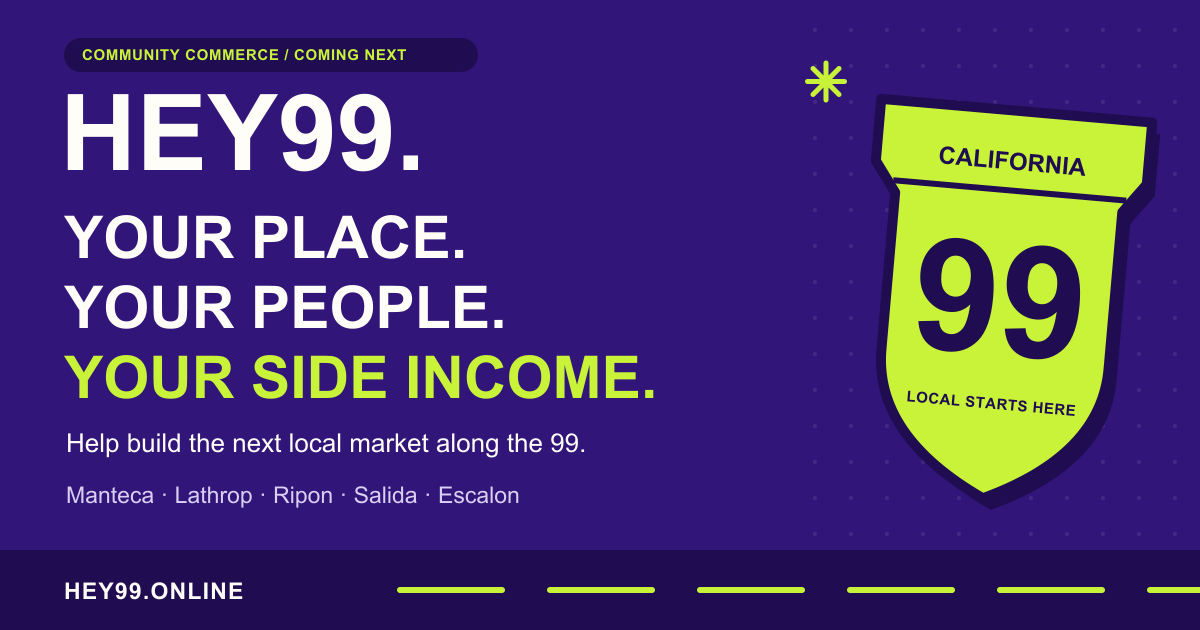
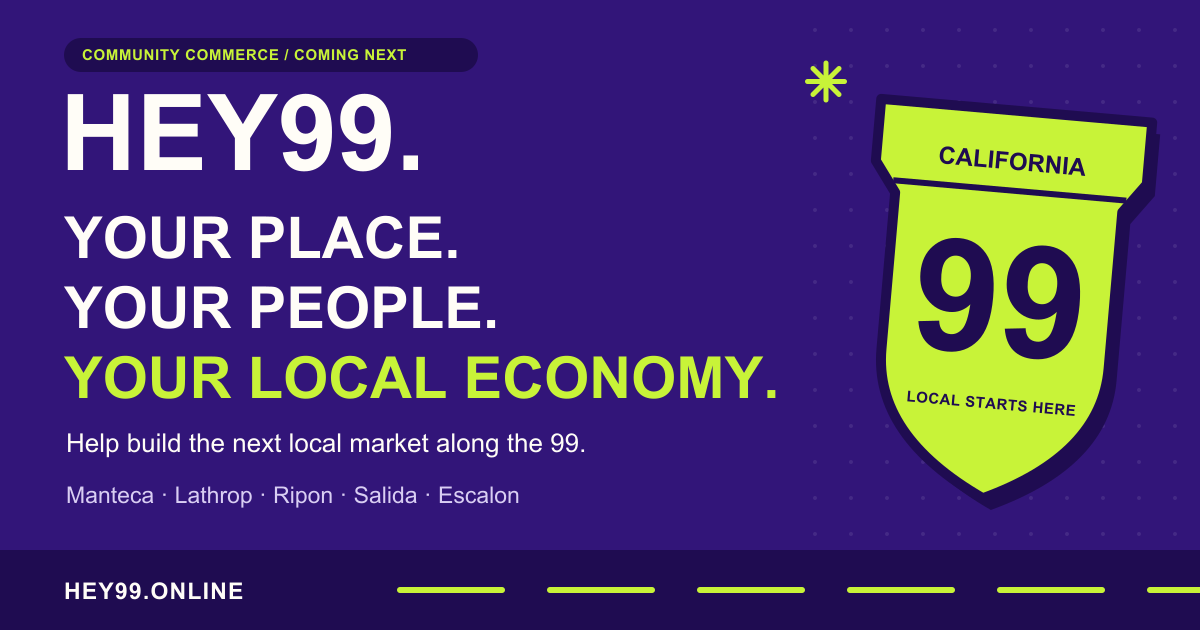
Lead Hey99 with local community and welcome merchants

Changed region(s): [[0.0617, 0.4524, 0.6475, 0.6333], [0.0617, 0.3317, 0.4008, 0.4222]]

diff --git a/index.html b/index.html
@@ -3,8 +3,8 @@
   <head>
     <meta charset="utf-8" />
     <meta name="viewport" content="width=device-width, initial-scale=1" />
-    <title>Hey99 — Build what’s next along the 99</title>
-    <meta name="description" content="Want a side income? Help build Hey99—the next community-powered market for Manteca, Lathrop, Ripon, Salida and Escalon." />
+    <title>Hey99 — Your place. Your people. Your local economy.</title>
+    <meta name="description" content="Help build a local economy along California’s Highway 99. Grow your business, connect your neighbors, and earn from the value you contribute." />
     <meta name="theme-color" content="#321579" />
     <link rel="icon" href="./assets/favicon.svg?v=2" type="image/svg+xml" />
     <link rel="icon" href="./assets/favicon-32.png?v=2" type="image/png" sizes="32x32" />
@@ -14,18 +14,18 @@
     <meta property="og:type" content="website" />
     <meta property="og:site_name" content="Hey99" />
     <meta property="og:url" content="https://hey99.online/" />
-    <meta property="og:title" content="Hey99 — Build a side income close to home" />
-    <meta property="og:description" content="Want a side income? Help build Hey99—the next community-powered market for Manteca, Lathrop, Ripon, Salida and Escalon." />
-    <meta property="og:image" content="https://hey99.online/assets/og-card-v2.png" />
+    <meta property="og:title" content="Hey99 — Your place. Your people. Your local economy." />
+    <meta property="og:description" content="Help build a local economy along California’s Highway 99. Grow your business, connect your neighbors, and earn from the value you contribute." />
+    <meta property="og:image" content="https://hey99.online/assets/og-card-v3.png" />
     <meta property="og:image:type" content="image/png" />
     <meta property="og:image:width" content="1200" />
     <meta property="og:image:height" content="630" />
-    <meta property="og:image:alt" content="Hey99: Your place. Your people. Your side income. A lime California Highway 99 shield on purple." />
+    <meta property="og:image:alt" content="Hey99: Your place. Your people. Your local economy. A lime California Highway 99 shield on purple." />
     <meta name="twitter:card" content="summary_large_image" />
-    <meta name="twitter:title" content="Hey99 — Build a side income close to home" />
-    <meta name="twitter:description" content="Want a side income? Help build Hey99—the next community-powered market for Manteca, Lathrop, Ripon, Salida and Escalon." />
-    <meta name="twitter:image" content="https://hey99.online/assets/og-card-v2.png" />
-    <meta name="twitter:image:alt" content="Hey99: Your place. Your people. Your side income. A lime California Highway 99 shield on purple." />
+    <meta name="twitter:title" content="Hey99 — Your place. Your people. Your local economy." />
+    <meta name="twitter:description" content="Help build a local economy along California’s Highway 99. Grow your business, connect your neighbors, and earn from the value you contribute." />
+    <meta name="twitter:image" content="https://hey99.online/assets/og-card-v3.png" />
+    <meta name="twitter:image:alt" content="Hey99: Your place. Your people. Your local economy. A lime California Highway 99 shield on purple." />
     <link rel="preconnect" href="https://fonts.googleapis.com" />
     <link rel="preconnect" href="https://fonts.gstatic.com" crossorigin />
     <link href="https://fonts.googleapis.com/css2?family=DM+Sans:wght@400;500;600;700;800&family=Lilita+One&display=swap" rel="stylesheet" />
@@ -59,13 +59,13 @@
         <div class="wrap hero-grid">
           <div class="hero-copy">
             <span class="eyebrow">#hey99 · Highway 99, California</span>
-            <h1 id="hero-title">Your next income stream has a <span>hometown.</span></h1>
-            <p class="hero-lede">A new local marketplace is coming to Manteca, Lathrop, Ripon, Salida and Escalon. If you know the people, places and businesses along the 99, there’s a part for you in building it.</p>
+            <h1 id="hero-title">Your place.<br />Your people.<br /><span>Your local economy.</span></h1>
+            <p class="hero-lede">Join the people building a stronger local economy in Manteca, Lathrop, Ripon, Salida and Escalon. Bring your business, your creativity or your local connections to a marketplace made by its community.</p>
             <div class="hero-actions">
               <a class="button" href="./join/">Help launch Hey99 <span aria-hidden="true">↗</span></a>
-              <a class="text-link" href="https://community.markets/economics/">See how earnings work <span aria-hidden="true">↗</span></a>
+              <a class="text-link" href="./market/">Explore the local market <span aria-hidden="true">↗</span></a>
             </div>
-            <p class="hero-status"><span aria-hidden="true">●</span> For anyone who wants to build a side income locally</p>
+            <p class="hero-status"><span aria-hidden="true">●</span> Local businesses. Local people. Building together.</p>
           </div>
           <div class="hero-art" aria-hidden="true">
             <div class="orbit orbit-one"></div><div class="orbit orbit-two"></div>
@@ -84,9 +84,11 @@
       <section class="section intro" id="opportunity">
         <div class="wrap two-column">
           <div><span class="eyebrow dark">A market made by its people</span><h2>Know this place?<br /><span>That matters.</span></h2></div>
-          <div class="intro-copy"><p class="large">The best local recommendations already happen every day: a friend names a repair shop, a creator shows a favorite spot, a neighbor connects a business to its next customer.</p><p>Hey99 gives those contributions a shared marketplace. Early participants can bring in sellers, invite other cosellers, make useful content and share offers. When eligible commerce starts, the people who help a sale happen can earn from it.</p><p><a class="inline-link" href="https://community.markets/economics/">Read the shared earnings model <span aria-hidden="true">↗</span></a></p></div>
+          <div class="intro-copy"><p class="large">The best local recommendations already happen every day: a friend names a repair shop, a creator shows a favorite spot, a neighbor connects a business to its next customer.</p><p>Hey99 brings businesses and neighbors together around useful local offers, honest stories and trusted recommendations. Merchants can reach nearby customers and build local relationships. Community participants can help businesses grow—and build a side income from the value they contribute when eligible commerce begins.</p><p><a class="inline-link" href="https://community.markets/economics/">Read the shared earnings model <span aria-hidden="true">↗</span></a></p></div>
         </div>
       </section>
+
+      <section class="section participation" aria-labelledby="participation-title"><div class="wrap"><div class="section-heading"><span class="eyebrow dark">Be part of what comes next</span><h2 id="participation-title">A place for your business.<br />A part for you.</h2><p>Local commerce grows when businesses and the people around them build together.</p></div><div class="participation-grid"><article class="participation-card"><span class="eyebrow dark">For merchants, makers &amp; service providers</span><h3>Bring your business</h3><p>Help shape the first local offers. Reach nearby customers through trusted stories and recommendations, and build lasting relationships with your community.</p><a class="button" href="./join/">Bring your business <span aria-hidden="true">↗</span></a></article><article class="participation-card"><span class="eyebrow dark">For neighbors, creators &amp; connectors</span><h3>Help your community grow</h3><p>Bring the connections, content and recommendations that help local businesses thrive. When eligible commerce begins, your contribution can also become a side income.</p><a class="button" href="./join/">Help your community grow <span aria-hidden="true">↗</span></a></article></div></div></section>
 
       <section class="section ways" aria-labelledby="ways-title">
         <div class="wrap"><div class="section-heading"><span class="eyebrow dark">Your way in</span><h2 id="ways-title">Four ways to move<br />the market.</h2><p>Start with the contribution you already know how to make.</p></div>
@@ -104,9 +106,9 @@
         <div class="wrap place-grid"><div class="place-art" aria-hidden="true"><div class="place-road"><span>99</span></div><span class="place-label p1">MANTECA</span><span class="place-label p2">LATHROP</span><span class="place-label p3">RIPON</span><span class="place-label p4">SALIDA</span><span class="place-label p5">ESCALON</span></div><div class="place-copy"><span class="eyebrow">Five communities, one first chapter</span><h2>Built along the 99.<br />Built by you.</h2><p>Hey99 begins with Manteca, Lathrop, Ripon, Salida and Escalon. Each place has its own businesses, everyday needs and people who know what deserves attention.</p><p>We’re looking for local people who can spot a great first offer, bring a seller into the fold or tell a story their neighbors will actually use.</p><a class="button button-light" href="./join/">I know this place <span aria-hidden="true">↗</span></a></div></div>
       </section>
 
-      <section class="section process" id="how"><div class="wrap"><div class="section-heading"><span class="eyebrow dark">How it works</span><h2>From local knowledge<br />to local income.</h2></div><div class="process-grid"><div><span>01</span><h3>Start with a real need</h3><p>A seller approves an offer and its reward terms. The offer says what counts as an eligible sale.</p></div><div><span>02</span><h3>People make it useful</h3><p>Connect the seller, create content, invite cosellers or share a relevant recommendation.</p></div><div><span>03</span><h3>Eligible sales reward the chain</h3><p>When commerce is live and a qualifying sale settles, its published terms determine who earns.</p></div></div><div class="process-note"><strong>Preview status</strong><p>Hey99 is recruiting now. Offers, checkout and payouts are not live, and preview activity creates no earnings. We’ll publish each offer’s terms before sharing begins.</p></div></div></section>
+      <section class="section process" id="how"><div class="wrap"><div class="section-heading"><span class="eyebrow dark">How it works</span><h2>Local connections.<br />Local commerce.</h2></div><div class="process-grid"><div><span>01</span><h3>Start with a real need</h3><p>A seller approves an offer and its reward terms. The offer says what counts as an eligible sale.</p></div><div><span>02</span><h3>People make it useful</h3><p>Connect the seller, create content, invite cosellers or share a relevant recommendation.</p></div><div><span>03</span><h3>A stronger local network</h3><p>When commerce is live and a qualifying sale settles, its published terms determine who earns.</p></div></div><div class="process-note"><strong>Preview status</strong><p>Hey99 is recruiting now. Offers, checkout and payouts are not live, and preview activity creates no earnings. We’ll publish each offer’s terms before sharing begins.</p></div></div></section>
 
-      <section class="section join" id="join"><div class="wrap join-grid"><div><span class="eyebrow">The founding invitation</span><h2>Bring your idea.<br /><span>Bring your people.</span></h2><p>Tell us where you’re rooted, the businesses or creators you know, and the first thing you’d help make useful. Applying starts a conversation about Hey99; it does not guarantee selection or income.</p><div class="join-actions"><a class="button" href="./join/">Apply to build Hey99 <span aria-hidden="true">↗</span></a><a class="text-link" href="./market/">Preview the Hey99 marketplace <span aria-hidden="true">↗</span></a></div></div><aside class="join-card"><span>FOUNDING MARKET / 03</span><strong>#hey99</strong><p>Good local commerce starts with someone who knows the place.</p><div>COMING NEXT <span aria-hidden="true">✳</span></div></aside></div></section>
+      <section class="section join" id="join"><div class="wrap join-grid"><div><span class="eyebrow">The founding invitation</span><h2>Bring your idea.<br /><span>Bring your people.</span></h2><p>Tell us about your business, the people you know, or the first thing you’d help make useful. Applying starts a conversation about Hey99; it does not guarantee selection or income.</p><div class="join-actions"><a class="button" href="./join/">Apply to build Hey99 <span aria-hidden="true">↗</span></a><a class="text-link" href="./market/">Preview the Hey99 marketplace <span aria-hidden="true">↗</span></a></div></div><aside class="join-card"><span>FOUNDING MARKET / 03</span><strong>#hey99</strong><p>Good local commerce starts with someone who knows the place.</p><div>COMING NEXT <span aria-hidden="true">✳</span></div></aside></div></section>
 
       <section class="market-family"><div class="wrap"><span class="eyebrow dark">A growing family of markets</span><h2>One idea. Every place its own.</h2><div class="family-grid"><a href="https://hey108.com/"><span>01 / FIRST LAUNCH</span><strong>Hey108 <i aria-hidden="true">↗</i></strong></a><a href="https://heylaguna.com/"><span>02 / SECOND LAUNCH</span><strong>HeyLaguna <i aria-hidden="true">↗</i></strong></a><div aria-current="step"><span>03 / COMING NEXT</span><strong>Hey99 <i aria-hidden="true">✳</i></strong></div></div></div></section>
     </main>

diff --git a/join/index.html b/join/index.html
@@ -3,8 +3,8 @@
   <head>
     <meta charset="utf-8" />
     <meta name="viewport" content="width=device-width, initial-scale=1" />
-    <title>Join Hey99 — Help build the next local market</title>
-    <meta name="description" content="Know the people and places along Highway 99? Bring your connections, content or recommendations and help build a local market—and a side income." />
+    <title>Join Hey99 — Help build your local economy</title>
+    <meta name="description" content="Bring your business, connections or creativity to Hey99. Help local commerce thrive and earn from the value you contribute." />
     <meta name="theme-color" content="#321579" />
     <link rel="icon" href="../assets/favicon.svg?v=2" type="image/svg+xml" />
     <link rel="icon" href="../assets/favicon-32.png?v=2" type="image/png" sizes="32x32" />
@@ -14,18 +14,18 @@
     <meta property="og:type" content="website" />
     <meta property="og:site_name" content="Hey99" />
     <meta property="og:url" content="https://hey99.online/join/" />
-    <meta property="og:title" content="Join Hey99 — Build a side income close to home" />
-    <meta property="og:description" content="Know the people and places along Highway 99? Bring your connections, content or recommendations and help build a local market—and a side income." />
-    <meta property="og:image" content="https://hey99.online/assets/og-card-v2.png" />
+    <meta property="og:title" content="Join Hey99 — Help build your local economy" />
+    <meta property="og:description" content="Bring your business, connections or creativity to Hey99. Help local commerce thrive and earn from the value you contribute." />
+    <meta property="og:image" content="https://hey99.online/assets/og-card-v3.png" />
     <meta property="og:image:type" content="image/png" />
     <meta property="og:image:width" content="1200" />
     <meta property="og:image:height" content="630" />
-    <meta property="og:image:alt" content="Hey99: Your place. Your people. Your side income. A lime California Highway 99 shield on purple." />
+    <meta property="og:image:alt" content="Hey99: Your place. Your people. Your local economy. A lime California Highway 99 shield on purple." />
     <meta name="twitter:card" content="summary_large_image" />
-    <meta name="twitter:title" content="Join Hey99 — Build a side income close to home" />
-    <meta name="twitter:description" content="Know the people and places along Highway 99? Bring your connections, content or recommendations and help build a local market—and a side income." />
-    <meta name="twitter:image" content="https://hey99.online/assets/og-card-v2.png" />
-    <meta name="twitter:image:alt" content="Hey99: Your place. Your people. Your side income. A lime California Highway 99 shield on purple." />
+    <meta name="twitter:title" content="Join Hey99 — Help build your local economy" />
+    <meta name="twitter:description" content="Bring your business, connections or creativity to Hey99. Help local commerce thrive and earn from the value you contribute." />
+    <meta name="twitter:image" content="https://hey99.online/assets/og-card-v3.png" />
+    <meta name="twitter:image:alt" content="Hey99: Your place. Your people. Your local economy. A lime California Highway 99 shield on purple." />
     <link rel="preconnect" href="https://fonts.googleapis.com" />
     <link rel="preconnect" href="https://fonts.gstatic.com" crossorigin />
     <link href="https://fonts.googleapis.com/css2?family=DM+Sans:wght@400;500;600;700;800&family=Lilita+One&display=swap" rel="stylesheet" />
@@ -37,13 +37,15 @@
     <header class="site-header"><div class="wrap header-inner"><a class="brand" href="../" aria-label="Hey99 home">HEY<span class="brand-number">99</span><span class="brand-dot">.</span></a><nav aria-label="Main navigation"><a href="../#opportunity">The opportunity</a><a href="../#place">The place</a><a href="../market/">Market preview</a><a href="#application" aria-current="page">Join Hey99</a></nav><a class="button button-small" href="#application">Apply now <span aria-hidden="true">↗</span></a></div></header>
 
     <main id="main">
-      <section class="join-hero"><div class="wrap join-hero-grid"><div><span class="eyebrow">#hey99 · founding invitation</span><h1>Build a side income around the place you know.</h1><p>Hey99 is for anyone in Manteca, Lathrop, Ripon, Salida or Escalon who wants to help local businesses grow and earn from useful connections, content and recommendations when commerce begins.</p><a class="button" href="#application">Tell us how you’d help <span aria-hidden="true">↗</span></a></div><div class="join-hero-badge" aria-hidden="true"><span>THE NEXT<br />LOCAL MARKET</span><strong>99</strong><em>BUILT BY PEOPLE<br />WHO KNOW THE PLACE</em></div></div></section>
+      <section class="join-hero"><div class="wrap join-hero-grid"><div><span class="eyebrow">#hey99 · founding invitation</span><h1>Help build the local economy you want to be part of.</h1><p>Hey99 brings local businesses and neighbors together in Manteca, Lathrop, Ripon, Salida and Escalon. Bring your business to reach nearby customers, or contribute connections, content and recommendations that help local commerce thrive—and can become a side income when eligible commerce begins.</p><a class="button" href="#application">Tell us how you’d help <span aria-hidden="true">↗</span></a></div><div class="join-hero-badge" aria-hidden="true"><span>THE NEXT<br />LOCAL MARKET</span><strong>99</strong><em>BUILT BY PEOPLE<br />WHO KNOW THE PLACE</em></div></div></section>
+
+      <section class="section participation" aria-labelledby="join-paths-title"><div class="wrap"><div class="section-heading"><span class="eyebrow dark">One local movement, many ways in</span><h2 id="join-paths-title">Let’s build it together.</h2></div><div class="participation-grid"><article class="participation-card"><h3>Bring your business</h3><p>Run a local shop, make something useful or offer a service? Tell us what you do and help shape the first market. Local stories and trusted recommendations can introduce your business to nearby customers.</p><a class="button" href="#application">Join as a local business <span aria-hidden="true">↗</span></a></article><article class="participation-card"><h3>Help your community grow</h3><p>Know the place, tell its stories or connect its people? Help your neighbors discover useful local offers. Eligible sales can reward your contribution and help you build a side income.</p><a class="button" href="#application">Join as a contributor <span aria-hidden="true">↗</span></a></article></div></div></section>
 
       <section class="section recruiting-paths"><div class="wrap"><div class="section-heading"><span class="eyebrow dark">Find your part</span><h2>What could you bring<br />to the 99?</h2><p>Start with one strength. There’s room to grow into more than one role.</p></div><div class="recruiting-grid"><article><span>01 / CONNECT</span><h3>Bring sellers in</h3><p>Know a merchant, service provider or local brand with something people would be glad to discover? Make the introduction.</p></article><article><span>02 / GROW</span><h3>Build the network</h3><p>Invite other cosellers who can recommend useful offers and bring their own local relationships.</p></article><article><span>03 / CREATE</span><h3>Make content</h3><p>Tell the story through video, photos, writing or guides that others can use when sharing an offer.</p></article><article><span>04 / SHARE</span><h3>Recommend well</h3><p>Put relevant offers in front of people who may value them. Eligible sales can reward the chain that helped a buyer arrive.</p></article></div><p class="recruiting-economics">These contribution paths share one earnings model across markets. <a href="https://community.markets/economics/">Read how the rewards work <span aria-hidden="true">↗</span></a></p></div></section>
 
-      <section class="section recruiting-expectations"><div class="wrap two-column"><div><span class="eyebrow dark">A first conversation</span><h2>Start small.<br />Start local.</h2></div><div><p class="large">You don’t need a finished business plan to raise your hand.</p><p>Tell us which community you know, the role you’d like to play and one useful thing you could help make happen. We’ll review each note as we shape Hey99’s first market.</p><p>This is a recruiting preview. There are no live offers, checkout or payouts, and applying does not guarantee a role or earnings.</p><p><a class="inline-link" href="../market/">Preview the Hey99 marketplace <span aria-hidden="true">↗</span></a></p></div></div></section>
+      <section class="section recruiting-expectations"><div class="wrap two-column"><div><span class="eyebrow dark">A first conversation</span><h2>Start small.<br />Start local.</h2></div><div><p class="large">You don’t need a finished business plan to raise your hand.</p><p>Tell us about your business or which community you know, the role you’d like to play and one useful thing you could help make happen. We’ll review each note as we shape Hey99’s first market.</p><p>This is a recruiting preview. There are no live offers, checkout or payouts, and applying does not guarantee a role or earnings.</p><p><a class="inline-link" href="../market/">Preview the Hey99 marketplace <span aria-hidden="true">↗</span></a></p></div></div></section>
 
-      <section class="section application-section" id="application"><div class="wrap application-grid"><div class="application-copy"><span class="eyebrow">Join the founding wave</span><h2>Tell us what you’d build.</h2><p>The form takes a few minutes. We’ll ask for your name, email, community, the contribution you’re most interested in and one idea or connection you’d bring.</p><p class="application-privacy">Your responses are collected through Tally for the Hey99 team to review. We’ll use them to follow up about this market.</p><p><a class="text-link" href="https://community.markets/">Learn about Community.Markets <span aria-hidden="true">↗</span></a></p></div><div class="application-card" id="application-card"><iframe data-tally-src="https://tally.so/embed/KY7xb7?alignLeft=1&amp;hideTitle=1&amp;transparentBackground=1&amp;dynamicHeight=1" loading="lazy" width="100%" height="720" frameborder="0" marginheight="0" marginwidth="0" title="Apply to build Hey99"></iframe><p>If the form does not load, <a href="https://tally.so/r/KY7xb7">open the Hey99 application directly</a>.</p></div></div></section>
+      <section class="section application-section" id="application"><div class="wrap application-grid"><div class="application-copy"><span class="eyebrow">Join the founding wave</span><h2>Tell us what you’d build.</h2><p>The form takes a few minutes. Tell us your name, email and community, then choose how you’d like to participate. Merchants can share their business and offers; contributors can share an idea, connection or skill.</p><p class="application-privacy">Your responses are collected through Tally for the Hey99 team to review. We’ll use them to follow up about this market.</p><p><a class="text-link" href="https://community.markets/">Learn about Community.Markets <span aria-hidden="true">↗</span></a></p></div><div class="application-card" id="application-card"><iframe data-tally-src="https://tally.so/embed/KY7xb7?alignLeft=1&amp;hideTitle=1&amp;transparentBackground=1&amp;dynamicHeight=1" loading="lazy" width="100%" height="720" frameborder="0" marginheight="0" marginwidth="0" title="Apply to build Hey99"></iframe><p>If the form does not load, <a href="https://tally.so/r/KY7xb7">open the Hey99 application directly</a>.</p></div></div></section>
     </main>
 
     <footer class="footer"><div class="wrap footer-grid"><div><a class="brand footer-brand" href="../" aria-label="Hey99 home">HEY<span class="brand-number">99</span><span class="brand-dot">.</span></a><p>Your place. Your people.<br />Your economy.</p></div><div><strong>EXPLORE</strong><a href="../">Hey99 home</a><a href="../market/">Market preview</a><a href="#application">Apply to build Hey99</a><a href="https://community.markets/economics/">How earnings work</a></div><div><strong>MORE</strong><a href="https://community.markets/">Community.Markets</a><a href="https://hey108.com/">Hey108</a><a href="https://heylaguna.com/">HeyLaguna</a></div><div class="footer-end"><span>#hey99</span><small>A Community.Markets preview.<br />No live checkout or payouts yet.</small></div></div></footer>

diff --git a/market/index.html b/market/index.html
@@ -3,8 +3,8 @@
   <head>
     <meta charset="utf-8" />
     <meta name="viewport" content="width=device-width, initial-scale=1" />
-    <title>Hey99 marketplace preview — Good things along the 99</title>
-    <meta name="description" content="Discover the local market taking shape along California’s Highway 99. Shops, makers, services and experiences, brought together by the people who know them." />
+    <title>Hey99 marketplace preview — Good things close to home</title>
+    <meta name="description" content="Discover shops, services and experiences along the 99. Join the people building a marketplace where local businesses and neighbors grow together." />
     <meta name="theme-color" content="#321579" />
     <link rel="icon" href="../assets/favicon.svg?v=2" type="image/svg+xml" />
     <link rel="icon" href="../assets/favicon-32.png?v=2" type="image/png" sizes="32x32" />
@@ -15,17 +15,17 @@
     <meta property="og:site_name" content="Hey99" />
     <meta property="og:url" content="https://hey99.online/market/" />
     <meta property="og:title" content="Hey99 marketplace preview — Good things close to home" />
-    <meta property="og:description" content="Discover the local market taking shape along California’s Highway 99. Shops, makers, services and experiences, brought together by the people who know them." />
-    <meta property="og:image" content="https://hey99.online/assets/og-card-v2.png" />
+    <meta property="og:description" content="Discover shops, services and experiences along the 99. Join the people building a marketplace where local businesses and neighbors grow together." />
+    <meta property="og:image" content="https://hey99.online/assets/og-card-v3.png" />
     <meta property="og:image:type" content="image/png" />
     <meta property="og:image:width" content="1200" />
     <meta property="og:image:height" content="630" />
-    <meta property="og:image:alt" content="Hey99: Your place. Your people. Your side income. A lime California Highway 99 shield on purple." />
+    <meta property="og:image:alt" content="Hey99: Your place. Your people. Your local economy. A lime California Highway 99 shield on purple." />
     <meta name="twitter:card" content="summary_large_image" />
     <meta name="twitter:title" content="Hey99 marketplace preview — Good things close to home" />
-    <meta name="twitter:description" content="Discover the local market taking shape along California’s Highway 99. Shops, makers, services and experiences, brought together by the people who know them." />
-    <meta name="twitter:image" content="https://hey99.online/assets/og-card-v2.png" />
-    <meta name="twitter:image:alt" content="Hey99: Your place. Your people. Your side income. A lime California Highway 99 shield on purple." />
+    <meta name="twitter:description" content="Discover shops, services and experiences along the 99. Join the people building a marketplace where local businesses and neighbors grow together." />
+    <meta name="twitter:image" content="https://hey99.online/assets/og-card-v3.png" />
+    <meta name="twitter:image:alt" content="Hey99: Your place. Your people. Your local economy. A lime California Highway 99 shield on purple." />
     <link rel="preconnect" href="https://fonts.googleapis.com" />
     <link rel="preconnect" href="https://fonts.gstatic.com" crossorigin />
     <link href="https://fonts.googleapis.com/css2?family=DM+Sans:wght@400;500;600;700;800&family=Lilita+One&display=swap" rel="stylesheet" />
@@ -40,7 +40,7 @@
       <div class="town-strip" aria-label="The first Hey99 communities"><div class="wrap"><span>MANTECA</span><i>✳</i><span>LATHROP</span><i>✳</i><span>RIPON</span><i>✳</i><span>SALIDA</span><i>✳</i><span>ESCALON</span></div></div>
       <section class="section market-preview" id="preview"><div class="wrap"><div class="section-heading"><span class="eyebrow dark">The first market</span><h2>What belongs here?</h2><p>These are starting areas for local discovery. Specific sellers, offers and prices will appear only after they are confirmed.</p></div><div class="preview-grid"><article><span class="preview-icon" aria-hidden="true">✳</span><h3>Local shops &amp; makers</h3><p>Useful, giftable and distinctive things made or sold close to home.</p></article><article><span class="preview-icon" aria-hidden="true">↗</span><h3>Everyday services</h3><p>People and businesses who help neighbors get something done.</p></article><article><span class="preview-icon" aria-hidden="true">♥</span><h3>Food &amp; gathering</h3><p>Local places and shared moments worth recommending.</p></article><article><span class="preview-icon" aria-hidden="true">✎</span><h3>Experiences &amp; learning</h3><p>Classes, activities and skills that bring people together.</p></article></div><div class="market-empty"><span>NO LIVE OFFERS YET</span><h3>The shelves are being built with the community.</h3><p>Hey99 has not opened checkout or published seller offers. This preview shows the direction, not products available to buy. Have a business, story or local connection that belongs here?</p><a class="button" href="../join/">Raise your hand <span aria-hidden="true">↗</span></a></div></div></section>
       <section class="section market-flow"><div class="wrap two-column"><div><span class="eyebrow dark">How the market will grow</span><h2>People make the difference.</h2></div><div><p class="large">A good offer starts with a local seller. It reaches more people through useful content and trusted recommendations.</p><p>When commerce begins, each offer will publish its own terms. Eligible sales can reward the people whose introductions, content and shares helped make the sale happen.</p><p><a class="inline-link" href="https://community.markets/economics/">Understand the shared earnings model <span aria-hidden="true">↗</span></a></p></div></div></section>
-      <section class="section market-call"><div class="wrap join-grid"><div><span class="eyebrow">A market built by its people</span><h2>What should we find along the 99?</h2><p>Tell us what your neighbors need, who should be part of the first group of sellers, or how you would help others discover good local offers.</p><a class="button" href="../join/">Join the founding wave <span aria-hidden="true">↗</span></a></div><aside class="join-card"><span>HEY99 / PREVIEW</span><strong>#hey99</strong><p>Real sellers and offers will be added as the market takes shape.</p><div>COMING NEXT <span aria-hidden="true">✳</span></div></aside></div></section>
+      <section class="section market-call"><div class="wrap join-grid"><div><span class="eyebrow">A market built by its people</span><h2>What should we find along the 99?</h2><p>Bring your own business, tell us what your neighbors need, or help others discover good local offers. The first market will take shape through the businesses and people who join it.</p><a class="button" href="../join/">Join the founding wave <span aria-hidden="true">↗</span></a></div><aside class="join-card"><span>HEY99 / PREVIEW</span><strong>#hey99</strong><p>Real sellers and offers will be added as the market takes shape.</p><div>COMING NEXT <span aria-hidden="true">✳</span></div></aside></div></section>
     </main>
     <footer class="footer"><div class="wrap footer-grid"><div><a class="brand footer-brand" href="../" aria-label="Hey99 home">HEY<span class="brand-number">99</span><span class="brand-dot">.</span></a><p>Your place. Your people.<br />Your economy.</p></div><div><strong>EXPLORE</strong><a href="../">Hey99 home</a><a href="./">Market preview</a><a href="../join/">Join Hey99</a><a href="https://community.markets/economics/">How earnings work</a></div><div><strong>MORE</strong><a href="https://community.markets/">Community.Markets</a><a href="https://hey108.com/">Hey108</a><a href="https://heylaguna.com/">HeyLaguna</a></div><div class="footer-end"><span>#hey99</span><small>Marketplace preview only.<br />No live offers, checkout or payouts yet.</small></div></div></footer>
   </body>

diff --git a/styles.css b/styles.css
@@ -24,3 +24,5 @@
 .market-hero{padding:95px 0;background:var(--purple);color:#fff}.market-hero-grid{display:grid;grid-template-columns:1.15fr .85fr;align-items:center;gap:65px}.market-hero h1{margin-top:25px;color:var(--lime)}.market-hero p{max-width:700px;margin-top:27px;font-size:clamp(19px,2vw,23px);line-height:1.45}.market-hero .text-link{color:#fff}.market-hero-art{min-height:380px;padding:35px;border:5px solid var(--purple-deep);border-radius:28px;background:var(--lime);color:var(--purple-deep);box-shadow:11px 12px 0 var(--purple-deep);transform:rotate(4deg);display:flex;flex-direction:column;justify-content:space-between}.market-hero-art span{font-size:16px;font-weight:800;line-height:1.1;letter-spacing:.14em}.market-hero-art strong{font:400 clamp(48px,5.4vw,80px)/.94 var(--head)}.market-hero-art em{font-style:normal;font-size:50px;line-height:1;text-align:right}.market-preview{background:#eee8ff}.preview-grid{display:grid;grid-template-columns:repeat(2,1fr);gap:22px;margin-top:50px}.preview-grid article{padding:27px;border:3px solid var(--purple-deep);border-radius:20px;background:#fff;box-shadow:5px 6px 0 var(--purple-deep)}.preview-icon{display:grid;place-items:center;width:55px;height:55px;border:3px solid var(--purple-deep);border-radius:50%;background:var(--lime);color:var(--purple-deep);font:400 30px var(--head)}.preview-grid h3{margin-top:22px;color:var(--purple)}.preview-grid p{margin-top:12px;color:var(--muted)}.market-empty{margin-top:55px;padding:35px;border:3px dashed var(--purple-deep);border-radius:23px;background:var(--paper)}.market-empty span{font-size:13px;font-weight:800;letter-spacing:.12em;color:var(--purple)}.market-empty h3{margin-top:18px;color:var(--purple)}.market-empty p{max-width:760px;margin-top:15px}.market-empty .button{margin-top:24px}.market-flow{background:var(--lime)}.market-flow h2{margin-top:25px}.market-flow .two-column>div:last-child p+p{margin-top:20px}.market-flow .large{font-size:clamp(21px,2.3vw,27px);line-height:1.4}.market-call{background:var(--purple-deep);color:#fff}.market-call h2{margin-top:23px;color:var(--lime)}.market-call p{max-width:620px;margin-top:23px;font-size:20px}.market-call .button{margin-top:28px}
 @media(max-width:900px){.market-hero-grid{grid-template-columns:minmax(0,1fr)}.market-hero-grid>div{min-width:0}.market-hero-art{width:min(calc(100% - 24px),440px);min-height:300px;margin-inline:auto}.market-hero-art strong{font-size:58px}}
 @media(max-width:700px){.market-hero{padding:65px 0}.market-hero-grid{gap:45px}.market-hero-art{min-height:260px}.market-hero-art strong{font-size:clamp(36px,9vw,58px)}.market-hero .hero-actions .button{font-size:15px;padding-inline:13px;text-align:center;white-space:normal}.preview-grid{grid-template-columns:1fr}.market-empty{padding:25px}.market-call p{font-size:17px}}
+
+.participation{background:var(--paper)}.participation-grid{display:grid;grid-template-columns:repeat(2,minmax(0,1fr));gap:24px;margin-top:40px}.participation-card{display:flex;flex-direction:column;align-items:flex-start;gap:20px;padding:30px;border:3px solid var(--purple-deep);border-radius:22px;background:#fff;box-shadow:6px 7px 0 var(--purple-deep)}.participation-card h3{color:var(--purple)}.participation-card p{flex:1}.participation-card .button{margin-top:5px;white-space:normal}.participation-card .eyebrow{font-size:12px}@media(max-width:700px){.participation-grid{grid-template-columns:1fr}.participation-card{padding:24px}}
